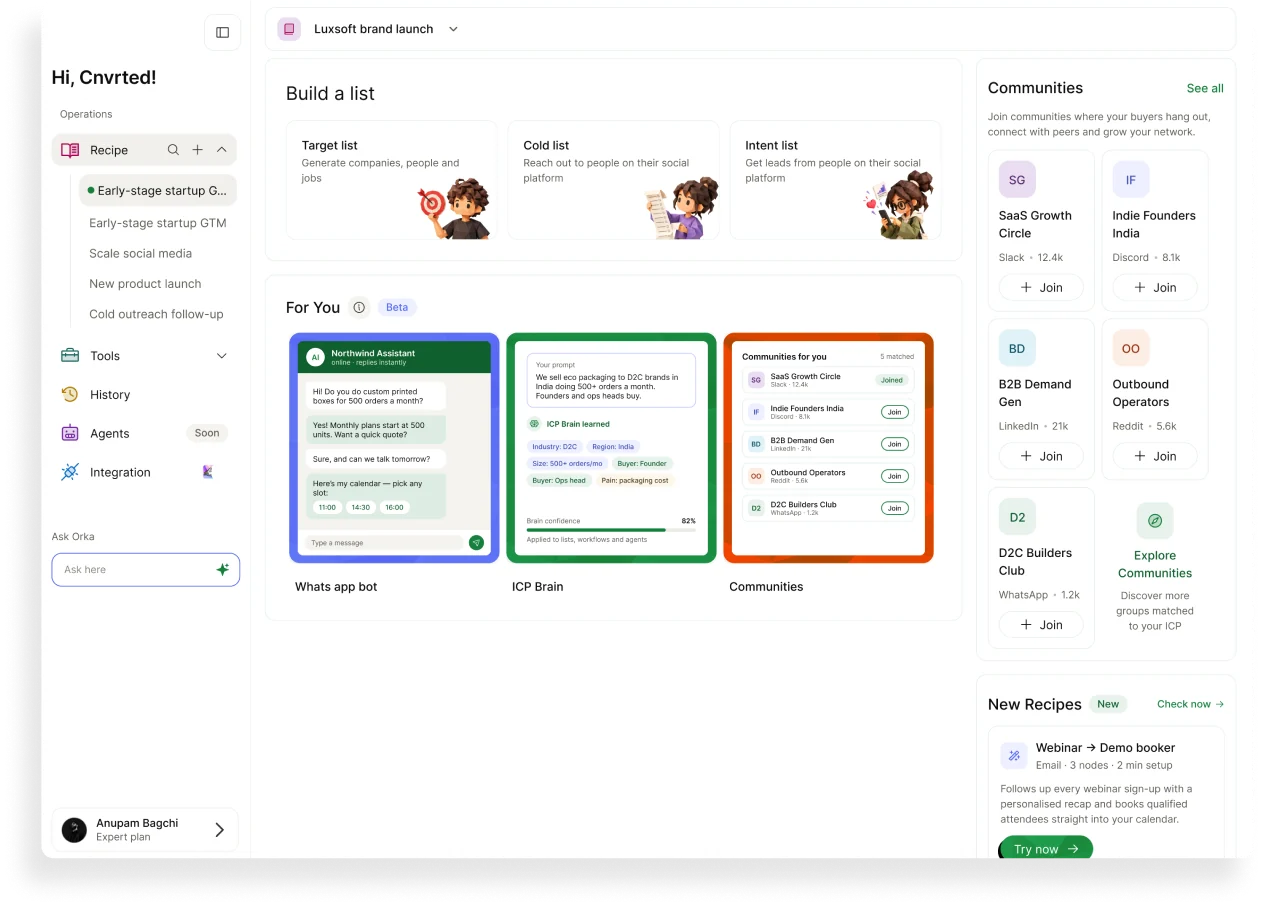
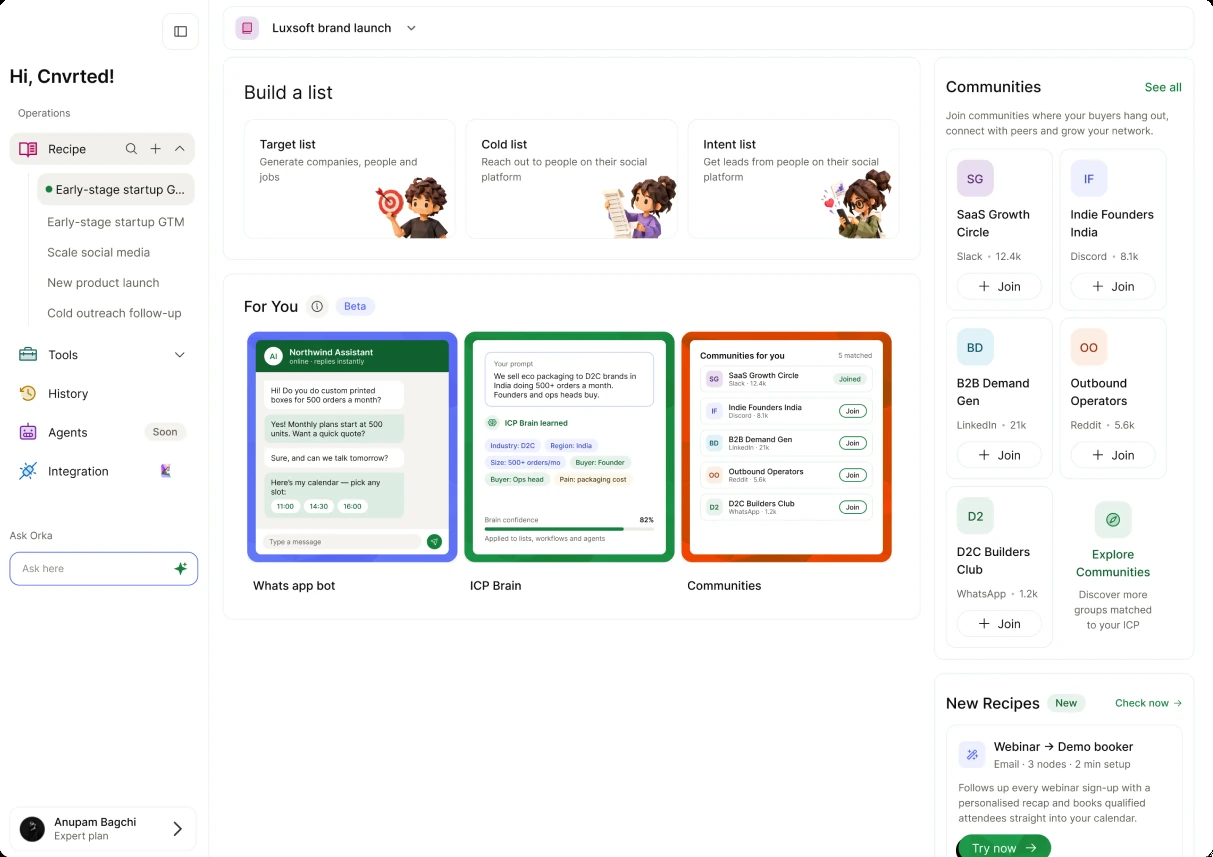
New homepage: clean splash bottom, glass in the page's design language
- The splash had a hard bottom line: the glass pane's long shadow ran
  past the section, which clips at its edge. Shadow kept inside it.
- The dashboard screenshot carried its own baked drop shadow in a
  transparent margin (it read as a second pane): cropped to the opaque
  window, 12px corners, and its cut-off bottom now dissolves into the
  glass.
- The glass pane uses the header pill's gradient, inner edges and top
  sheen, and the brain orb's white-to-peach rim, specular corner, warm
  caustic and indigo contact shadow.

diff --git a/src/components/crockedglass/home.css b/src/components/crockedglass/home.css
@@ -67,20 +67,36 @@
 .cg-hero h1 { margin: 0; max-width: 821px; font-family: var(--cg-display); font-weight: 400; font-size: 62px; line-height: normal; color: #000; text-wrap: balance; }
 .cg-hero p { margin-top: 24px; max-width: 532px; font-size: 16px; line-height: 1.5; color: #7c7c7c; }
 .cg-hero .cg-btn { margin-top: 32px; }
-/* one screen, pinned; the window is sized to fit inside it (the screenshot is 1263 x 907) */
+/* one screen, pinned; the window is sized to fit inside it (the screenshot is 1213 x 857) */
 .cg-splash-run { position: relative; }
 .cg-splash-sticky { position: sticky; top: 0; height: 100svh; }
-.cg-splash { height: 100svh; min-height: 0 !important; padding: 12svh 24px !important;
-  --ink-window-width: min(100%, calc(76svh * 1263 / 907)); --ink-window-radius: 14px; --ink-paper: #fafafa; }
+.cg-splash { height: 100svh; min-height: 0 !important; padding: 13svh 24px !important;
+  --ink-window-width: min(100%, calc(74svh * 1213 / 857)); --ink-window-radius: 12px; --ink-paper: #fafafa; }
 .cg-splash-win { position: relative; will-change: transform, opacity; transform-origin: 50% 60%; visibility: hidden; }
-/* frosted pane behind the window: reaches to within ~72px of the screen edges (a rim of ink stays clear) and well above and below it */
+
+/* Frosted pane behind the window, in the page's glass language: the header pill's white gradient, bright inner
+   top edge and top sheen, plus the brain orb's rim (white top-left to warm peach bottom-right), its specular
+   highlight and its soft indigo contact shadow. Reaches to ~72px from the screen edges; a rim of ink stays clear. */
 .cg-splash-glass { position: absolute; z-index: 0; visibility: hidden;
-  top: -7svh; bottom: -7svh; left: min(-40px, calc((100% - 100vw) / 2 + 96px)); right: min(-40px, calc((100% - 100vw) / 2 + 96px));
-  border-radius: 32px; background: linear-gradient(180deg, rgb(255 255 255 / .34), rgb(255 255 255 / .2));
-  -webkit-backdrop-filter: blur(44px) saturate(1.25); backdrop-filter: blur(44px) saturate(1.25);
-  border: 1px solid rgb(255 255 255 / .45);
-  box-shadow: inset 0 1px 0 rgb(255 255 255 / .6), 0 30px 80px -30px rgb(30 27 75 / .35); }
-@media (max-width: 640px) { .cg-splash-glass { border-radius: 20px; left: -8px; right: -8px; top: -4svh; bottom: -4svh; } }
+  top: -6.5svh; bottom: -6.5svh; left: min(-40px, calc((100% - 100vw) / 2 + 96px)); right: min(-40px, calc((100% - 100vw) / 2 + 96px));
+  border-radius: 24px;
+  background:
+    radial-gradient(40% 55% at 14% 0%, rgb(255 255 255 / .5), rgb(255 255 255 / 0) 70%),
+    radial-gradient(35% 45% at 92% 100%, rgb(255 226 196 / .28), rgb(255 226 196 / 0) 70%),
+    linear-gradient(180deg, rgb(255 255 255 / .52) 0%, rgb(255 255 255 / .28) 100%);
+  -webkit-backdrop-filter: blur(40px) saturate(1.8); backdrop-filter: blur(40px) saturate(1.8);
+  box-shadow: inset 0 1px 0 rgb(255 255 255 / .85), inset 0 -1px 0 rgb(255 255 255 / .18),
+    /* kept small: the section clips at its edge, and a longer shadow made a hard line there */
+    0 22px 44px -26px rgb(40 24 90 / .3), 0 1px 3px rgb(16 17 26 / .05); }
+/* rim: a 1px gradient stroke, white at the top-left to peach at the bottom-right, as on the orb */
+.cg-splash-glass::before { content: ""; position: absolute; inset: 0; border-radius: inherit; padding: 1px; pointer-events: none;
+  background: linear-gradient(135deg, rgb(255 255 255 / .95), rgb(255 255 255 / .2) 50%, rgb(255 224 200 / .75));
+  -webkit-mask: linear-gradient(#000 0 0) content-box, linear-gradient(#000 0 0); -webkit-mask-composite: xor;
+  mask: linear-gradient(#000 0 0) content-box exclude, linear-gradient(#000 0 0); }
+/* top sheen, as on the header pill */
+.cg-splash-glass::after { content: ""; position: absolute; inset: 0 0 55% 0; border-radius: 24px 24px 0 0; pointer-events: none;
+  background: linear-gradient(180deg, rgb(255 255 255 / .3), rgb(255 255 255 / 0)); }
+@media (max-width: 640px) { .cg-splash-glass { border-radius: 18px; left: -8px; right: -8px; top: -4svh; bottom: -4svh; } .cg-splash-glass::after { border-radius: 18px 18px 0 0; } }
 .cg-splash .ink-reveal__ink, .cg-splash .ink-reveal__still {
   /* soft fade into the page at the top and bottom: no hard edge, no stipple */
   /* a long eased fade (smoothstep-shaped, 30% of the height) so there's no line where it reaches full strength */
@@ -91,7 +107,11 @@
   background: radial-gradient(55% 45% at 6% 92%, var(--ink-orange), transparent 70%), radial-gradient(50% 50% at 96% 70%, var(--ink-pink), transparent 75%),
     radial-gradient(60% 55% at 10% 30%, var(--ink-pink), transparent 75%), var(--ink-blue); }
 .cg-splash .ink-reveal__window { box-shadow: none !important; transform: none !important; transition: none !important; }
-.cg-splash-img { display: block; width: 100%; height: auto; border-radius: 14px; box-shadow: 0 40px 90px -40px rgb(24 22 60 / .45), 0 2px 6px rgb(24 22 60 / .06); }
+/* the screenshot: a 12px card like the rest of the page; its content stops mid-card at the bottom, so that edge
+   dissolves into the glass instead of being cut off */
+.cg-splash-img { display: block; width: 100%; height: auto; border-radius: 12px;
+  -webkit-mask-image: linear-gradient(to bottom, #000 78%, rgb(0 0 0 / .6) 88%, rgb(0 0 0 / .2) 95%, transparent 100%);
+  mask-image: linear-gradient(to bottom, #000 78%, rgb(0 0 0 / .6) 88%, rgb(0 0 0 / .2) 95%, transparent 100%); }
 
 /* ---------- open web → booked meetings ---------- */
 .cg-feat { margin-top: 98px; }

diff --git a/src/components/crockedglass/home.tsx b/src/components/crockedglass/home.tsx
@@ -93,7 +93,7 @@ export function CrockedglassHome() {
 
         {/* the app window, full width: ink splashes out from behind it once you've scrolled a little way in */}
         <SplashWindow>
-          <img className="cg-splash-img" src="/crockedglass/dashboard.webp" width={1263} height={907}
+          <img className="cg-splash-img" src="/crockedglass/dashboard.webp" width={1213} height={857}
             alt="The Cnvrted app: build a target, cold or intent list, For You recommendations, and communities matched to your ICP" />
         </SplashWindow>
 
